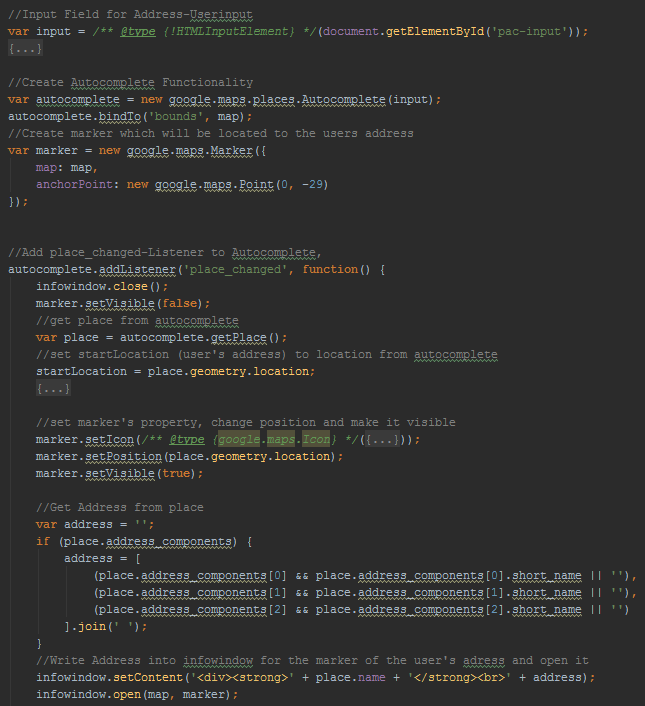
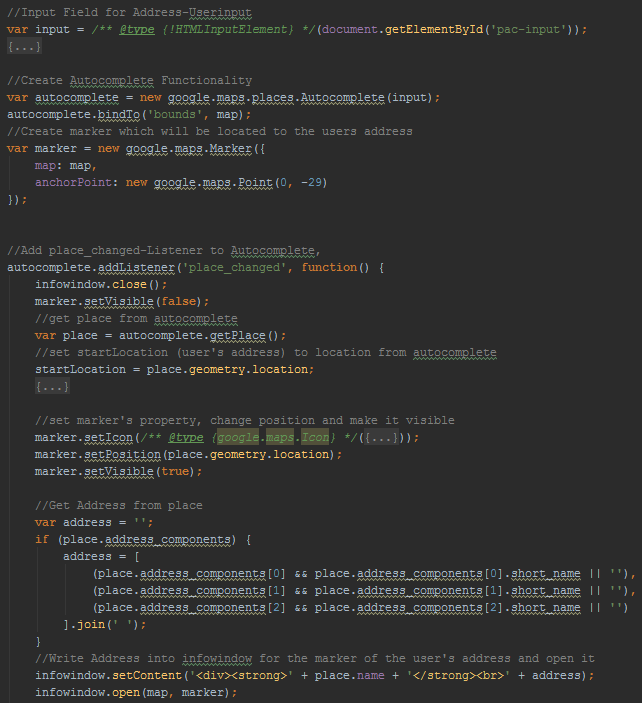
further latex work #nohome

diff --git a/Homepage/index.html b/Homepage/index.html
@@ -24,10 +24,13 @@
 	<script src="js/websocket.js"></script>
 
     <!--Heise Plugin-->
+    <!--load Heise Plugin Script-->
     <script type="text/javascript" src="js/heisePlugin/jquery.socialshareprivacy.js"></script>
     <script type="text/javascript">
         jQuery(document).ready(function($){
+            //check with id-selector if element "socialshareprivacy" exists
             if($('#socialshareprivacy').length > 0){
+                //if yes, fill it with via the function "socialSharePrivacy"
                 $('#socialshareprivacy').socialSharePrivacy({
                     "css_path"  : "js/heisePlugin/socialshareprivacy/socialshareprivacy.css",
                     "lang_path" : "js/heisePlugin/socialshareprivacy/lang/",
@@ -139,22 +142,22 @@
                         (place.address_components[2] && place.address_components[2].short_name || '')
                     ].join(' ');
                 }
-                //Write Address into infowindow for the marker of the user's adress and open it
+                //Write Address into infowindow for the marker of the user's address and open it
                 infowindow.setContent('<div><strong>' + place.name + '</strong><br>' + address);
                 infowindow.open(map, marker);
 
-                //display Route
+                //create route
                 var directionsDisplay = new google.maps.DirectionsRenderer({
                     map: map
                 });
-                // Set destination, origin and travel mode.
+                //set destination, origin and travel mode
                 var request = {
                     destination: schoolLocation,
                     origin: startLocation,
                     travelMode: google.maps.TravelMode.DRIVING
                 };
 
-                // Pass the directions request to the directions service.
+                //pass the directions request to the directions service.
                 var directionsService = new google.maps.DirectionsService();
                 directionsService.route(request, function(response, status) {
                     if (status == google.maps.DirectionsStatus.OK) {
@@ -647,8 +650,10 @@
             <div class="center">
                 <h2>Anfahrt</h2>
 
+                <!--Input field for user's address-->
                 <input id="pac-input" class="controls" type="text"
                        placeholder="Ihr Abfahrtsort">
+                <!--div to display map-->
                 <div id="map" style="width:100%;height:50rem;"></div>
 
                 <address style="margin-top: 1.8rem;">

diff --git a/webprojekt_latex_seb/inhalt.tex b/webprojekt_latex_seb/inhalt.tex
@@ -21,7 +21,7 @@
 
 \section{Anfahrtsbeschreibung per Google Maps}
 \label{Anfahrtsbeschreibung per Google Maps}
-Für den Fall, dass der Nutzer der Website von außerhalb des Ortes der Schule kommt, wurde eine Anfahrtbeschreibung mittels Google Maps eingebunden (siehe \vref{fig:googleMaps}).
+Für den Fall, dass der Nutzer der Website von außerhalb des Ortes der Schule kommt, wurde eine Anfahrtbeschreibung mittels Google Maps eingebunden (siehe Abbildung \vref{fig:googleMaps}).
 
 \begin{figure}[!htbp]
 	\makebox[\textwidth]{ 
@@ -32,7 +32,7 @@ Für den Fall, dass der Nutzer der Website von außerhalb des Ortes der Schule k
 
 Auf dem Bild ist nicht nur der Standort der Schule vermerkt, sondern darüberhinaus kann der User über ein Eingabefeld links oben seine Abfahrtsadresse eingeben, sodass die optimale Route auf der Karte angezeigt wird. Des Weiteren wurde mit Hilfe der Autocomplete Funktion der Google Maps API eine automatische Vervollständigung der Adresse bei Eingabe in das Adressfeld implementiert, wie auf dem Screenshot zu sehen ist.
 \par
-Verwirklicht wurde die Einbindung, indem zuerst die Google Maps API und die Google Maps API für die Google Places per <script>-Tag in den <head> der Website importiert wurde (siehe \vref{fig:googleMapsAPI}).
+Verwirklicht wurde die Einbindung, indem zuerst die Google Maps API und die Google Maps API für die Google Places per \textit{<script>}-Tag in den \textit{<head>} der Website importiert wurde (siehe Abbildung \vref{fig:googleMapsAPI}).
 
 \begin{figure}[!htbp]
 	\makebox[\textwidth]{ 
@@ -41,31 +41,65 @@ Verwirklicht wurde die Einbindung, indem zuerst die Google Maps API und die Goog
 	\label{fig:googleMapsAPI}
 \end{figure}
 
-Danach wird über eine JavaScript-Funktion, ebenfalls im <head>-Bereich die Map erstellt (siehe \vref{fig:googleMapsInit})
+Danach wird über eine JavaScript-Funktion, ebenfalls im <head>-Bereich die Map erstellt (siehe Abbildung \vref{fig:googleMapsInit}).
 
-\begin{figure}[!htbp]
+\begin{figure}[!bh]
 	\makebox[\textwidth]{ 
 		\includegraphics[scale=1]{img/googleMapsInit.png}}
-	\caption{initMap-Funktion zur Erstellung der Karte}
+	\caption{\textit{initMap}-Funktion zur Erstellung der Karte}
 	\label{fig:googleMapsInit}
 \end{figure}
 
-Im zweiten Teil der selben Funktion wird die Autocomplete-Funktion für das Input-Feld implementiert (siehe \vref{fig:googleMapsInit2}).
+Im zweiten Teil der selben Funktion wird die Autocomplete-Funktion für das Input-Feld implementiert und der Marker für die eingegebene Adresse auf der Karte gesetzt (siehe Abbildung \vref{fig:googleMapsInit2}).
 
-\begin{figure}[!htbp]
+\begin{figure}[!bh]
 	\makebox[\textwidth]{ 
 		\includegraphics[scale=1]{img/googleMapsInit2.png}}
-	\caption{Init-Function}
+	\caption{Autocomplete-Funktion und Adressmarker}
 	\label{fig:googleMapsInit2}
 \end{figure}
 
-Die Route wird im letzten Teil der Funktion...
+Die Route zwischen der Abfahrtsadresse und der Schule wird im letzten Teil der Funktion erstellt und angezeigt. Vor Schließen des \textit{<script>}-Tags wird noch ein Event-Listener hinzugefügt, welcher auf das Aufrufen der Seite wartet und bei diesem dann die Karte zeichnet, indem dann die Funktion \textit{initMap} ausgeführt wird (siehe Abbildung \vref{fig:googleMapsInit3}).
 
+\begin{figure}[!bh]
+	\makebox[\textwidth]{ 
+		\includegraphics[scale=1]{img/googleMapsInit3.png}}
+	\caption{Routenerstellung}
+	\label{fig:googleMapsInit3}
+\end{figure}
+
+Um nun die Karte auch tatsächlich in der Website anzeigen zu können, wird zu guter Letzt noch \textit{div}-Container mit der Id \textit{"'map"'} an der Stelle, wo die Karte hingezeichnet werden soll, erstellt (siehe Abbildung \vref{fig:googleMapsDiv}). Dieses \textit{div} wird dann durch die Funktion \textit{initMap} gefüllt. Dafür wird bei Deklaration der Karte über einen Id-Selektor das entsprechende \textit{div} ausgewählt, in welchem die Google Map erscheinen soll (siehe Abbildung \vref{fig:googleMapsInit} (ganz oben)).
+
+\begin{figure}[!bh]
+	\makebox[\textwidth]{ 
+		\includegraphics[scale=1]{img/googleMapsDiv.png}}
+	\caption{Container für die Karte}
+	\label{fig:googleMapsDiv}
+\end{figure}
 
 \section{Einbindung von Social Buttons mittels des Heise Plugins}
 \label{Einbindung von Social Buttons mittels des Heise Plugins}
+Um soziale Netzwerke der Schule oder des Sportfestes auf der Seite verlinken zu können, wurden mittels des Heise Plugins Social Buttons eingebunden (Facebook, Twitter und Google+). Der Vorteil bei diesem Plugin liegt darin, dass der Nutzer selbst bestimmen kann, ob er diese Buttons benutzen möchte, oder komplett für die Seite deaktivieren will. Der Sinn dahinter liegt in der Datenschutzproblematik bei der Einbindung der "`Like"'-Buttons von Facebook und Co.: Das Einbinden dieser Buttons erfolgt über einen iFrame, welcher von Facebook und Co. selbst zur Verfügung gestellt wird. Der iFrame enthält Code, der veranlasst, dass die URL der Seite, Cookies der Seite an Facebook geschickt wird. Ist der Anwender zudem gleichzeitig in einem anderen Fenster bei Facebook angemeldet, so schickt das iFrame zusätzlich Sitzungs-Id mit, wodurch Facebook einen Webseitenaufruf einer konkreten Person zuordnen kann.
+\par
+Damit das also nicht passiert, dürfte die Seite entweder keinerlei Elemente von Facebook, Twitter und Google+ behinhalten, oder das Heise Plugin verhindert eben genau dies, indem all diese Elemente zunächst bei Aufruf der Seite deaktiviert sind. Möchte der Nutzer nun einer der Funktionen der sozialen Netzwerke nutzen, so muss er die entsprechende erst über das Plugin aktivieren.
+\par
+In die Website integriert wurde das Plugin, indem zuerst das, von Heise zur Verfügung gestellte Skript des Plugins im \textit{<head>} geladen wird und ein HTML-Element durch ein weiteres Skript gefüllt wird (siehe Abbildung \vref{fig:heisePlugin1}).
 
+\begin{figure}[!th]
+	\makebox[\textwidth]{ 
+		\includegraphics[scale=1]{img/heisePlugin1.png}}
+	\caption{Integrieren des Heise Plugins}
+	\label{fig:heisePlugin1}
+\end{figure}
 
+Durch ein \textit{div}-Element mit Id \textit{"'socialshareprivacy"'} (wie es in Abbildung \vref{fig:heisePlugin1} selektiert wird) vor dem Footer der Seite wird das Plugin dann am Ende der Seite angezeigt (siehe Abbildung \vref{fig:heisePlugin2}).
+
+\begin{figure}[!bh]
+	\makebox[\textwidth]{ 
+		\includegraphics[scale=1]{img/heisePlugin2.png}}
+	\caption{Heise Plugin in der Website}
+	\label{fig:heisePlugin2}
+\end{figure}
 
 \chapter{Client-Server-Kommunikation}
 \label{Client-Server-Kommunikation}

diff --git a/webprojekt_latex_seb/master.tex b/webprojekt_latex_seb/master.tex
@@ -25,13 +25,22 @@
 
 %	Konfigurationsdatei einziehen
 \input{config}
+
 \usepackage{setspace}
+
 \begin{document}
 
 \input{titlepage}
 
 \pagenumbering{roman} % Römische Seitennummerierung
 \normalfont
+
+\setstretch{1}
+
+\chapter*{Vorwort}
+Soweit im Folgenden Berufs-, Gruppen- oder Personenbezeichnungen verwendet werden, so ist stets auch die jeweils weibliche Form gemeint. Zu Gunsten des Leseflusses wird daher bewusst von einer genderneutralen Ausdrucksweise abgesehen.
+\par
+Um Redundanzen zu vermeiden, wurden bei manchen Stellen in der Arbeit von genaueren Erklärungen zu Quellcodeabschnitten im Text abgesehen - in diesen Fällen sind erläuternde Kommentare in den Screenshots oder in dem Code-Listing selbst vertreten.
 
 %--------------------------------
 % Verzeichnisse - nicht benötige Verzeichnisse bitte auskommentieren / löschen.
@@ -61,7 +70,6 @@
 \clearpage 
 \ihead{\chaptername~\thechapter} % Neue Header-Definition
 \pagenumbering{arabic}  % Arabische Seitenzahlen
-
 
 \setstretch{1,5}
 %	Einleitungs-Datei einziehen
